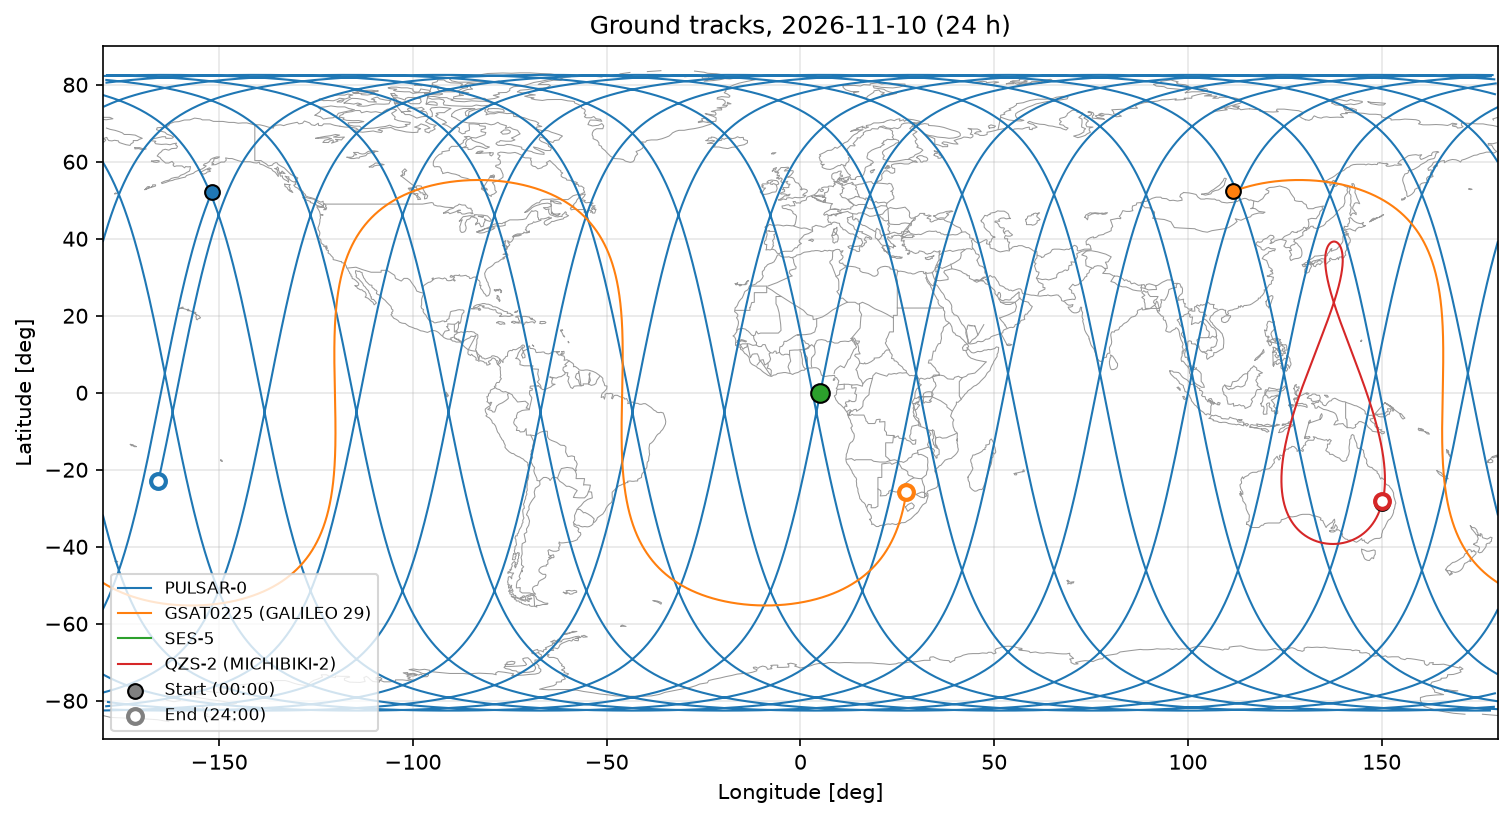
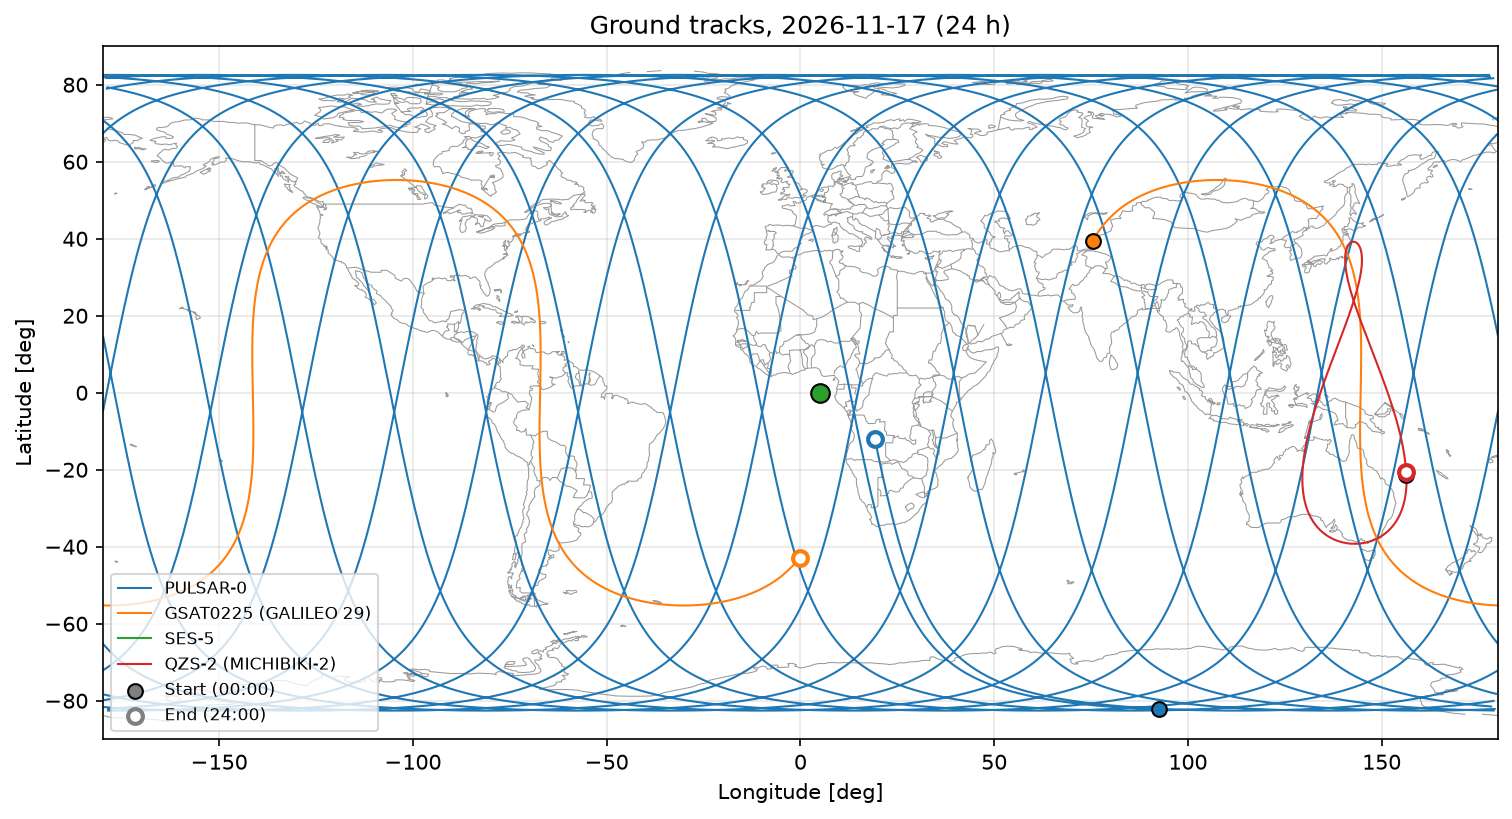
Refresh GP data from CelesTrak (2026-11-17)
Ran python -m orbit_explorer.fetch. All four epochs are now within
0.6 days of the window start (2026-11-17 00:00 UTC); QZS-2 was 23 days
old before.

Kepler vs SGP4 with fresh data: 8-32 km at each epoch, PULSAR-0 ~340 km
after a day (J2), MEO/GEO/IGSO within ~30-55 km. QZS-2's maximum drops
from 257 km to 54 km, so most of its earlier difference came from the
stale record.

README documents the refresh and the saved workshop dataset, and its
Kepler vs SGP4 numbers and figures are updated.

Changed region(s): [[0.0622, 0.0916, 0.9947, 0.8852]]

diff --git a/README.md b/README.md
@@ -18,23 +18,39 @@ inertial frame, with the Kepler and SGP4 positions side by side.
   for both Kepler and SGP4
 - Compares the two-body Kepler model with SGP4/SDP4 over the same day
 
+## Data
+`data/inputs/orbital_elements.json` holds the GP records and
+`data/inputs/data_manifest.json` records where and when they were downloaded.
+The propagation window starts at midnight UTC of the download day. To refresh
+from CelesTrak:
+
+    python -m orbit_explorer.fetch
+
+This rewrites both files for the same four satellites, but only if every
+download succeeds. It warns when an epoch is more than 3 days from the window
+start. CelesTrak asks for no more than one download of the same data every two
+hours.
+
 ## Validation
-All periods, perigee/apogee altitudes and speed ranges match the GNSS Academy
-workshop reference values for the four satellites.
+All periods, perigee/apogee altitudes and speed ranges matched the GNSS Academy
+workshop reference values for the four satellites. That dataset (downloaded
+2026-11-10) is kept in `tests/data/`, and the period test runs against it,
+because fresh elements change: QZS-2's period moves after station-keeping.
 
 ## Kepler vs SGP4
 GP elements are meant for SGP4, which adds Earth's oblateness (J2–J4), drag and,
-for high orbits, lunar and solar gravity. Comparing positions over the day shows
-what the two-body model leaves out:
+for high orbits, lunar and solar gravity. Comparing positions over the day
+(GP data of 2026-11-17) shows what the two-body model leaves out:
 
-- At each satellite's GP epoch the two models differ by 13–33 km. GP elements
+- At each satellite's GP epoch the two models differ by 8–32 km. GP elements
   are SGP4 *mean* elements, not osculating Keplerian ones.
-- **LEO (PULSAR-0)** drifts apart fastest: about 360 km by the end of the day,
+- **LEO (PULSAR-0)** drifts apart fastest: about 340 km by the end of the day,
   mostly in-track, plus a growing cross-track swing from the J2 nodal drift of
   its sun-synchronous orbit.
-- **MEO and GEO** stay within 30–45 km all day.
-- **QZS-2** is about 200 km off already at 00h because its GP epoch is 23 days
-  before the window.
+- **MEO, GEO and IGSO** stay within about 30–55 km all day.
+- Element age matters as much as the model: with the earlier QZS-2 record,
+  23 days old, the difference was about 200 km from the start of the day. With
+  a fresh record it stays below 55 km.
 
 ![Kepler minus SGP4 position difference over the day](docs/images/sgp4_differences.png)
 
